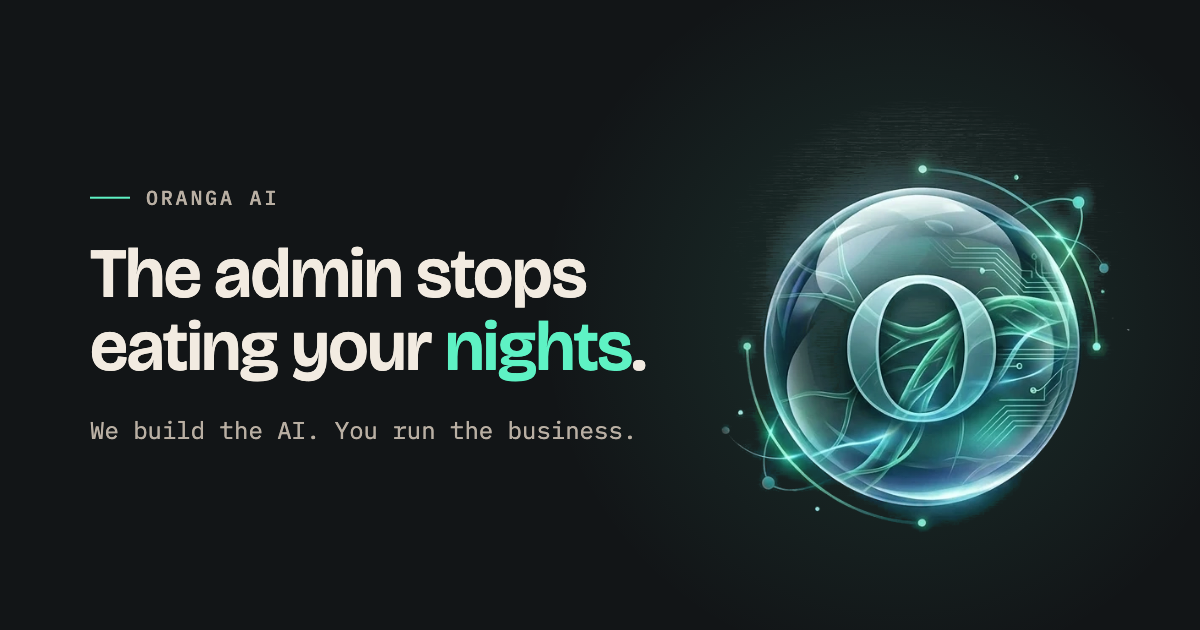
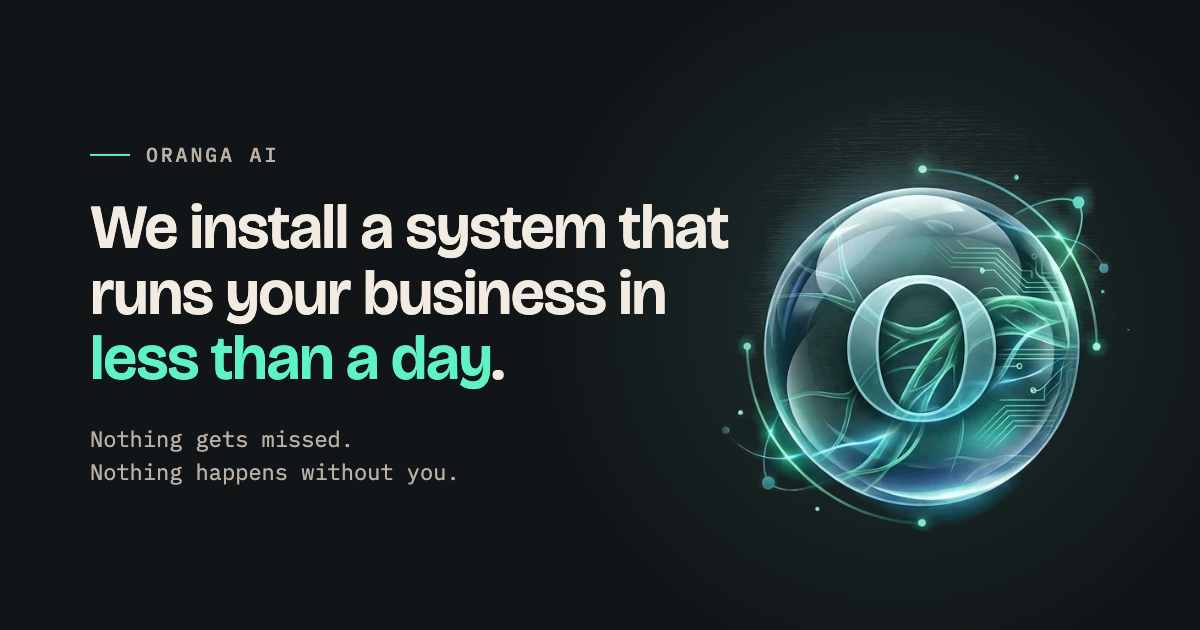
New headline in share image and page meta; Oranga mark on How it works card; About card leads

Changed region(s): [[0.0617, 0.3016, 0.6167, 0.6333], [0.0617, 0.6635, 0.5242, 0.7841], [0.1233, 0.2111, 0.2158, 0.2714]]

diff --git a/index.html b/index.html
@@ -3,20 +3,20 @@
 <head>
 <meta charset="UTF-8">
 <meta name="viewport" content="width=device-width, initial-scale=1.0">
-<title>Oranga Core: AI for trade businesses that handles the admin | Oranga AI</title>
-<meta name="description" content="Oranga Core is an AI system built for trade businesses. It learns how your business runs, handles enquiries, follow-ups and quotes every day, and never acts alone on anything that matters. Installed by Oranga AI.">
+<title>Oranga AI: a system that runs your business, installed in less than a day</title>
+<meta name="description" content="Oranga AI installs Oranga Core in less than a day: a personal assistant that connects the tools you already use, so nothing gets missed and nothing happens without you.">
 <link rel="canonical" href="https://orangaai.com/">
 
 <!-- Open Graph / Twitter -->
 <meta property="og:type" content="website">
 <meta property="og:site_name" content="Oranga AI">
-<meta property="og:title" content="Oranga Core: AI for trade businesses that handles the admin">
-<meta property="og:description" content="It learns how your business runs, handles the enquiries and follow-ups every day, and never acts alone on anything that matters.">
+<meta property="og:title" content="Oranga AI: a system that runs your business, installed in less than a day">
+<meta property="og:description" content="A personal assistant that connects the tools you already use, so nothing gets missed and nothing happens without you.">
 <meta property="og:url" content="https://orangaai.com/">
 <meta property="og:image" content="https://orangaai.com/images/og.png">
 <meta name="twitter:card" content="summary_large_image">
-<meta name="twitter:title" content="Oranga Core: AI for trade businesses that handles the admin">
-<meta name="twitter:description" content="It learns how your business runs, handles the enquiries and follow-ups every day, and never acts alone on anything that matters.">
+<meta name="twitter:title" content="Oranga AI: a system that runs your business, installed in less than a day">
+<meta name="twitter:description" content="A personal assistant that connects the tools you already use, so nothing gets missed and nothing happens without you.">
 <meta name="twitter:image" content="https://orangaai.com/images/og.png">
 
 <link rel="icon" type="image/svg+xml" href="/images/favicon.svg">
@@ -89,12 +89,14 @@ src="https://www.facebook.com/tr?id=1601510988349512&ev=PageView&noscript=1"
       </div>
 
       <nav class="glass-cards" aria-label="Start here">
-        <a href="/admin-exposure" class="glass-card" data-card="quiz">
-          <span class="glass-card-label">2 minutes</span>
-          <span class="glass-card-title">Take the admin quiz</span>
+        <a href="/about" class="glass-card glass-card-about" data-card="about">
+          <img class="glass-card-photo" src="/images/eru-osborne.jpg" alt="" width="76" height="76">
+          <span class="glass-card-label">The founder</span>
+          <span class="glass-card-title">About Eru</span>
           <svg class="arrow" viewBox="0 0 16 16" fill="none" xmlns="http://www.w3.org/2000/svg" aria-hidden="true"><path d="M3 8H13M13 8L9 4M13 8L9 12" stroke="currentColor" stroke-width="1.5" stroke-linecap="round" stroke-linejoin="round"/></svg>
         </a>
         <a href="#how" class="glass-card" data-card="how">
+          <img class="glass-card-logo" src="/images/orb-fallback.png" alt="" width="100" height="98">
           <span class="glass-card-label">The workspace</span>
           <span class="glass-card-title">How it works</span>
           <svg class="arrow" viewBox="0 0 16 16" fill="none" xmlns="http://www.w3.org/2000/svg" aria-hidden="true"><path d="M3 8H13M13 8L9 4M13 8L9 12" stroke="currentColor" stroke-width="1.5" stroke-linecap="round" stroke-linejoin="round"/></svg>
@@ -104,10 +106,9 @@ src="https://www.facebook.com/tr?id=1601510988349512&ev=PageView&noscript=1"
           <span class="glass-card-title">Real results</span>
           <svg class="arrow" viewBox="0 0 16 16" fill="none" xmlns="http://www.w3.org/2000/svg" aria-hidden="true"><path d="M3 8H13M13 8L9 4M13 8L9 12" stroke="currentColor" stroke-width="1.5" stroke-linecap="round" stroke-linejoin="round"/></svg>
         </a>
-        <a href="/about" class="glass-card glass-card-about" data-card="about">
-          <img class="glass-card-photo" src="/images/eru-osborne.jpg" alt="" width="76" height="76">
-          <span class="glass-card-label">The founder</span>
-          <span class="glass-card-title">About Eru</span>
+        <a href="/admin-exposure" class="glass-card" data-card="quiz">
+          <span class="glass-card-label">2 minutes</span>
+          <span class="glass-card-title">Take the admin quiz</span>
           <svg class="arrow" viewBox="0 0 16 16" fill="none" xmlns="http://www.w3.org/2000/svg" aria-hidden="true"><path d="M3 8H13M13 8L9 4M13 8L9 12" stroke="currentColor" stroke-width="1.5" stroke-linecap="round" stroke-linejoin="round"/></svg>
         </a>
         <a href="/strategy-call" class="glass-card glass-card-primary" data-card="book">

diff --git a/styles.css b/styles.css
@@ -581,6 +581,14 @@ main > section.hero-orb { padding: 0; }
   border-color: rgba(94, 242, 196, 0.45);
 }
 .glass-card-primary .glass-card-label { color: #BDF5E4; }
+/* Oranga mark on the How it works card, same slot as the founder photo */
+.glass-card-logo {
+  width: 100px; height: auto;
+  /* the artwork has glow padding: pull it out so the sphere lines up with the photo */
+  margin: -12px 0 auto -12px;
+  object-fit: contain;
+  filter: drop-shadow(0 0 14px rgba(94, 242, 196, 0.22));
+}
 /* About: the founder's photo sits at the top, text stays on the shared baseline */
 .glass-card-photo {
   width: 76px; height: 76px;
@@ -619,6 +627,7 @@ main > section.hero-orb { padding: 0; }
   .glass-cards { grid-template-columns: repeat(2, minmax(0, 1fr)); gap: 10px; }
   .glass-card { padding: 14px 36px 14px 14px; min-height: 120px; }
   .glass-card-photo { width: 52px; height: 52px; }
+  .glass-card-logo { width: 70px; margin: -9px 0 auto -9px; }
   /* five cards on a two-column grid: the booking card takes the full last row */
   .glass-card-primary { grid-column: 1 / -1; min-height: 0; }
   .glass-card-title { font-size: 1rem; }
